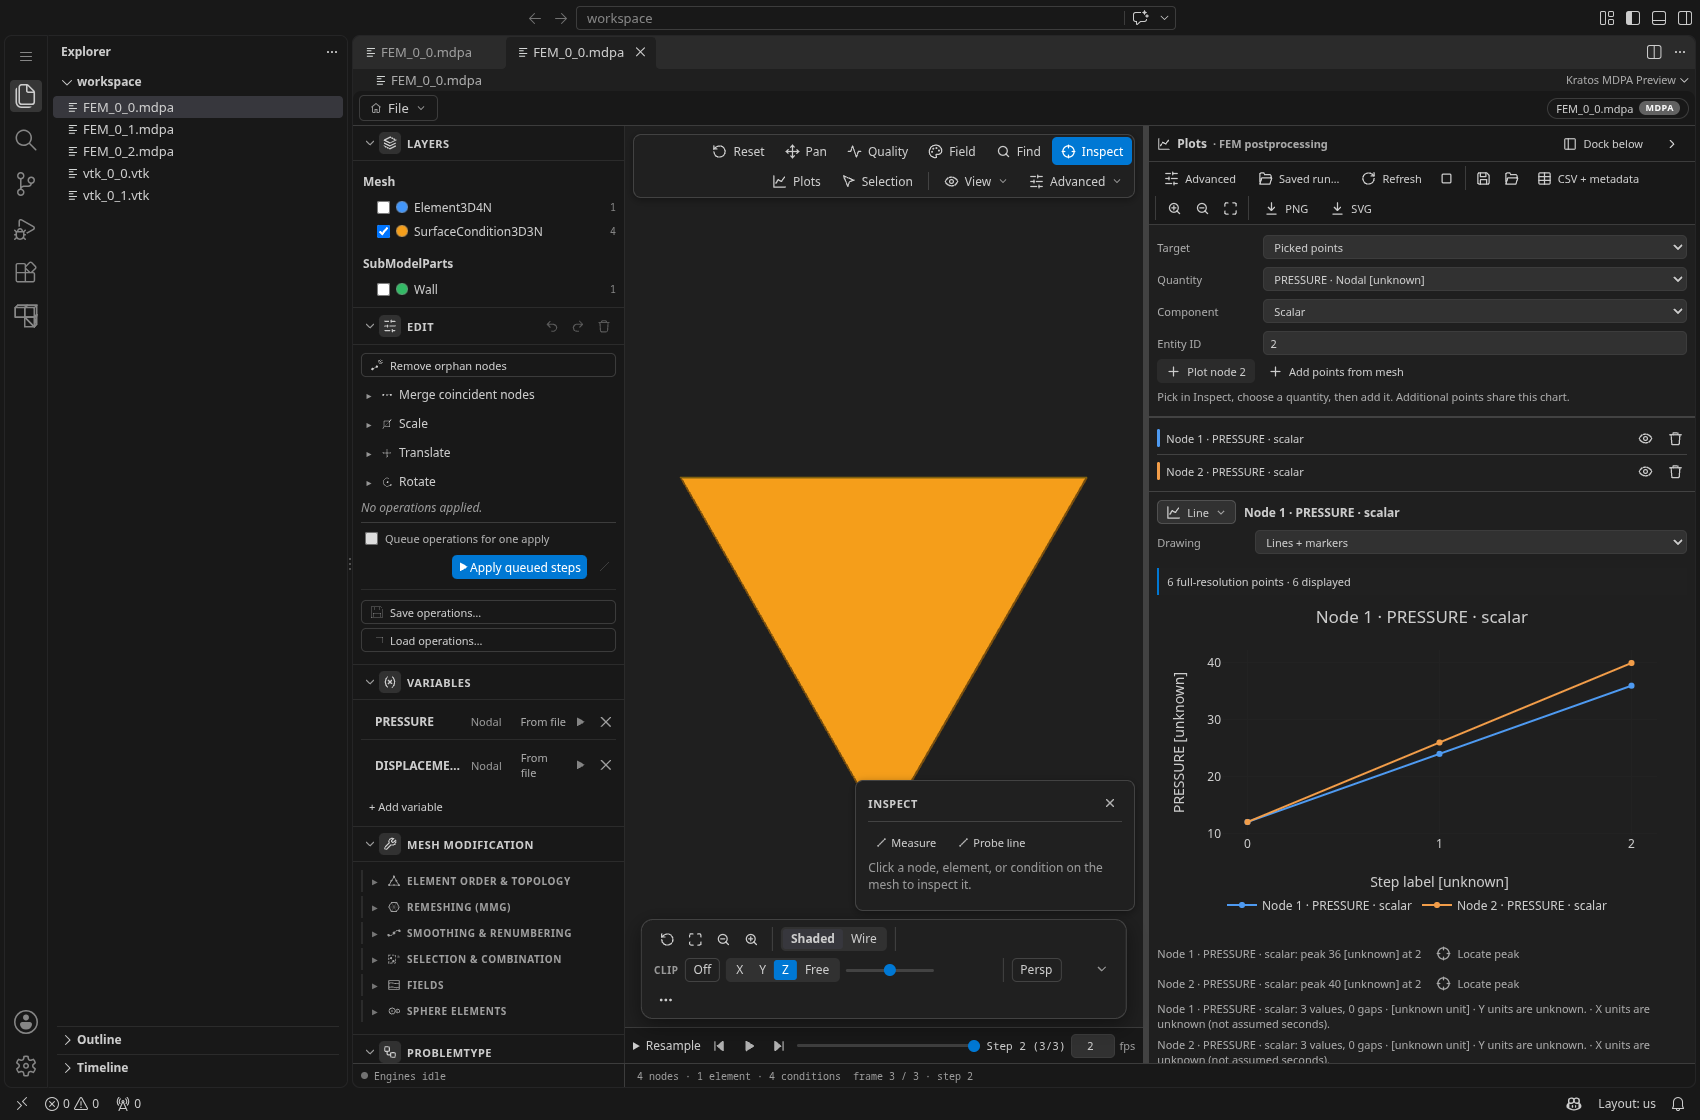
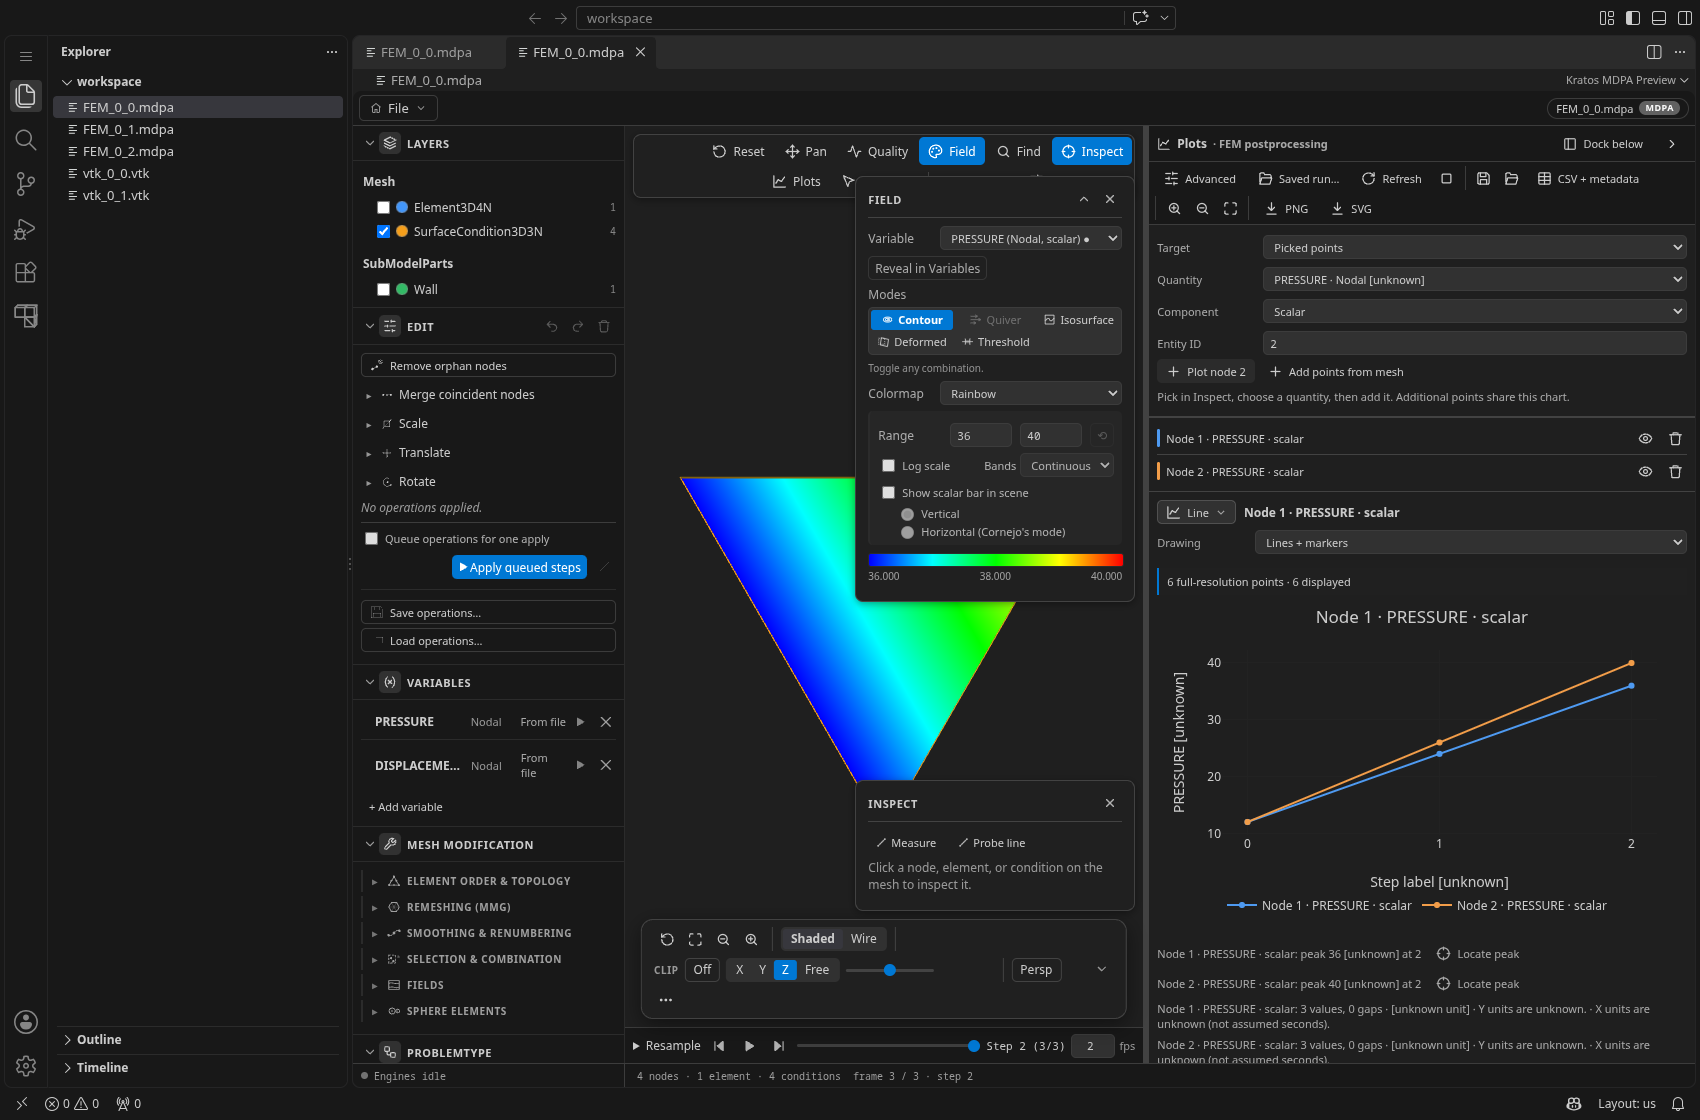
Plots default to the displayed field, with packaged proof (#124)
* Proceed

* docs(plots): field display drives plot quantity default, with packaged proof

Changed region(s): [[0.4053, 0.375, 0.6547, 0.7188], [0.4988, 0.2188, 0.6547, 0.375], [0.4988, 0.125, 0.6547, 0.2188]]

diff --git a/src/parser/plot/fem.ts b/src/parser/plot/fem.ts
@@ -8,13 +8,23 @@ export interface FemPlotContext {
   path: string; frameIndex: number; hasTimeline: boolean;
   /** Provider-local timeline/rank/resampling identity, not a claim of run ownership. */
   timelineId?: string;
+  /** `${kind}:${variable}` of the field currently displayed in the focused pane, if any. View-only hint so a plot defaults to what the mesh is showing. */
+  displayedKey?: string;
   fields: { variable:string; kind:FieldBlockKind; components:number; unit?:string }[];
   parts: { path:string; nodes:number; elements:number; conditions:number }[];
 }
-export function femPlotContext(path:string, model:MdpaModel|undefined, frameIndex=0, hasTimeline=false):FemPlotContext {
+export function plotFieldKey(kind: FieldBlockKind, variable: string): string {
+  return `${kind}:${variable}`;
+}
+export function defaultPlotFieldKey(fields: FemPlotContext["fields"], displayedKey?: string): string {
+  if (displayedKey && fields.some(f => plotFieldKey(f.kind, f.variable) === displayedKey)) return displayedKey;
+  const first = fields.find(f => f.variable === "DISPLACEMENT") ?? fields.find(f => f.variable === "PRESSURE") ?? fields[0];
+  return first ? plotFieldKey(first.kind, first.variable) : "";
+}
+export function femPlotContext(path:string, model:MdpaModel|undefined, frameIndex=0, hasTimeline=false, displayedKey?: string):FemPlotContext {
   const parts:FemPlotContext["parts"]=[];
   const walk=(p:NonNullable<MdpaModel>["subModelParts"][number])=>{parts.push({path:p.path,nodes:p.nodeIds.length,elements:p.elementIds.length,conditions:p.conditionIds.length});p.children.forEach(walk);};model?.subModelParts.forEach(walk);
-  return {path,frameIndex,hasTimeline,parts,fields:model?.fields.map(f=>({variable:f.variable,kind:f.kind,components:f.components,unit:model.source?.units?.fields?.[f.variable]??fieldUnitLabel(f)}))??[]};
+  return {path,frameIndex,hasTimeline,parts,fields:model?.fields.map(f=>({variable:f.variable,kind:f.kind,components:f.components,unit:model.source?.units?.fields?.[f.variable]??fieldUnitLabel(f)}))??[],...(displayedKey?{displayedKey}:{})};
 }
 export function appendFemCurve(recipe:PlotRecipe, source:PlotSource, component:number|"magnitude", components:number, name:string):PlotRecipe {
   const next=JSON.parse(JSON.stringify(recipe)) as PlotRecipe;

diff --git a/src/test/plotFem.test.ts b/src/test/plotFem.test.ts
@@ -7,7 +7,7 @@ import { parseMdpa } from "../parser/mdpaParser";
 import { sampleRegion } from "../parser/plot/region";
 import { collectPlot, collectPlotHistorySteps, loadPlotSource } from "../parser/plot/sources";
 import { emptyPlotRecipe, validatePlotRecipe, PLOT_CAPABILITIES } from "../parser/plot/recipe";
-import { appendFemCurve, femPlotContext } from "../parser/plot/fem";
+import { appendFemCurve, defaultPlotFieldKey, femPlotContext } from "../parser/plot/fem";
 import { plotCsvRows } from "../parser/plot/export";
 import { evaluatePlot, displayPlot } from "../parser/plot/numerics";
 import { plotDataset } from "../mcp/tools";
@@ -121,6 +121,16 @@ test("region recipes validate required physical parameters and retain all choice
   for(const extra of [{thickness:0},{referencePoint:undefined},{pressureOffset:NaN}])assert.throws(()=>validatePlotRecipe({...r,sources:[spec({operation:"pressureMoment",referencePoint:[1,2,3],...extra})]}));
   assert.ok(PLOT_CAPABILITIES.regionOperations.includes("pressureForce"));assert.equal(femPlotContext("x",tetra()).parts[0].path,"Wall");
   assert.throws(()=>appendFemCurve(r,{id:"history",type:"history",path:"x",kind:"Nodal",entityId:1,variable:"REACTION"},0,3,"Node"),/different domains/);
+});
+test("plot quantity defaults to the displayed field when it is still on the mesh",()=>{
+  const m=tetra();
+  assert.equal(femPlotContext("x",m,0,false,"Nodal:PRESSURE").displayedKey,"Nodal:PRESSURE");
+  assert.equal(femPlotContext("x",m).displayedKey,undefined);
+  const fields=femPlotContext("x",m).fields;
+  assert.equal(defaultPlotFieldKey(fields,"Nodal:PRESSURE"),"Nodal:PRESSURE");
+  assert.equal(defaultPlotFieldKey(fields,"Nodal:MISSING"),"Nodal:PRESSURE");
+  assert.equal(defaultPlotFieldKey(fields), "Nodal:PRESSURE");
+  assert.equal(defaultPlotFieldKey([]),"");
 });
 test("batch loads each frame once and diagnoses missing IDs, fields, widths and supplied metadata independently",async()=>{
   let loads=0;const first=tetra(),second=tetra();second.fields[0].ids=Int32Array.from([2,3,4]);second.source!.units!.fields!.REACTION="kN";

diff --git a/webview/plots/workspace.ts b/webview/plots/workspace.ts
@@ -1,7 +1,7 @@
 import { emptyPlotRecipe, validatePlotRecipe } from "../../src/parser/plot/recipe";
 import { type PlotFamily, type PlotColumn, type PlotDataset, type PlotOrigin, type PlotRecipe, type PlotSeriesSpec, type PlotSource, type PlotTable, type PlotTransform } from "../../src/parser/plot/types";
 import { Plotly, renderPlotChart, type PlotElement } from "./chart";
-import { appendFemCurve, regionResultWidth, type FemPlotContext } from "../../src/parser/plot/fem";
+import { appendFemCurve, defaultPlotFieldKey, regionResultWidth, type FemPlotContext } from "../../src/parser/plot/fem";
 import { REGION_OPERATIONS, type PlotRegionSource } from "../../src/parser/plot/types";
 import { glyph, type UiGlyphId } from "../../src/uiGlyphs";
 import { CHART_CHOICES } from "./catalog";
@@ -75,7 +75,7 @@ function renderQuick(){
   if(!context){quick.textContent="Pick entities in Inspect, or select a SubModelPart to analyze.";return;}
   select(quick,"Target",target,[{value:"point",label:"Picked points"},{value:"region",label:"SubModelPart / whole mesh"}],v=>{target=v;renderQuick();});
   const fields=context.fields;
-  if(!fields.some(f=>`${f.kind}:${f.variable}`===fieldKey)){const first=fields.find(f=>f.variable==="DISPLACEMENT")??fields.find(f=>f.variable==="PRESSURE")??fields[0];fieldKey=first?`${first.kind}:${first.variable}`:"";}
+  if(!fields.some(f=>`${f.kind}:${f.variable}`===fieldKey)){fieldKey=defaultPlotFieldKey(fields,context.displayedKey);}
   select(quick,"Quantity",fieldKey,fields.map(f=>({value:`${f.kind}:${f.variable}`,label:`${f.variable} · ${f.kind} [${f.unit??"unknown"}]`})),v=>{fieldKey=v;if(picked&&selectedField()?.kind!==picked.kind)picked=undefined;renderQuick();});
   const field=selectedField();if(!field){status.textContent="This mesh has no supplied field to plot.";return;}
   const vectorOperation=target==="region"&&["pressureForce","pressureMoment","reactionMoment"].includes(operation);

diff --git a/webview/main.ts b/webview/main.ts
@@ -3050,7 +3050,7 @@ function highlightPlotRegion(path:string):void {
   if(!cells.length)for(const id of nodes)cells.push({nodeIds:[id]});
   if(cells.length){addLayer("plot:region",cells,[1,.75,.1],true);render();}
 }
-const plotPane=initPlotPane({postMessage:v=>vscode.postMessage(v),setState:()=>{}},()=>femPlotContext(plotSourcePath,model,currentFrameIndex,timelineFrameCount>1),{onPickPoints:active=>{if(active)showInspectPanel();},onRegion:highlightPlotRegion});
+const plotPane=initPlotPane({postMessage:v=>vscode.postMessage(v),setState:()=>{}},()=>femPlotContext(plotSourcePath,model,currentFrameIndex,timelineFrameCount>1,fieldVisible?focusedPane().field.selectedKey:undefined),{onPickPoints:active=>{if(active)showInspectPanel();},onRegion:highlightPlotRegion});
 
 // --- Toolbar ------------------------------------------------------------
 // --- View + Advanced toolbar menus --------------------------------------

diff --git a/webview/plots/pane.ts b/webview/plots/pane.ts
@@ -35,6 +35,7 @@ export function initPlotPane(bridge:PlotBridge,getContext:()=>FemPlotContext,han
   sash.addEventListener("keydown",e=>{if(["ArrowLeft","ArrowRight","ArrowUp","ArrowDown","Home","End"].includes(e.key)){e.preventDefault();fraction=e.key==="Home"?.2:e.key==="End"?.75:Math.max(.2,Math.min(.75,fraction+(["ArrowLeft","ArrowUp"].includes(e.key)?.03:-.03)));size();}});
   return {open,receive:(msg:any)=>{
     if(msg.type==="plotReveal"){void open(false);if(msg.preset)afterReady(()=>applyPreset(msg.preset));return;}
+    if(msg.type==="plotContext"&&msg.context&&!msg.context.displayedKey){const local=getContext();if(local.displayedKey)msg={...msg,context:{...msg.context,displayedKey:local.displayedKey}};}
     if(!workspace)return;
     workspace.receive(msg);
     if(msg.type==="plotRecipe"&&!ready){ready=true;const action=pending;pending=undefined;action?.();}

diff --git a/doc/guide/scientific-plots.md b/doc/guide/scientific-plots.md
@@ -2,9 +2,9 @@
 
 The **Plots** pane is a read-only analysis workspace **inside the mesh editor**, for point histories, SubModelPart quantities and spatial profiles. A standalone **Scientific Plot Builder** also handles CSV/TSV without a mesh. Both use the same host-side extraction and numerical calculations as MCP, rather than sampling the rendered viewport. You do not need a plotting script. These are delivered increments of [roadmap item 8](../roadmap.md#_8-advanced-graphical-plotting-utilities-for-simulation-results-and-general-data-l); the remaining acceptance work is listed below.
 
-![Two nodal pressure histories in the Plots pane inside the packaged MDPA editor](/screenshots/fem-point-histories.png)
+![Two nodal pressure histories in the Plots pane inside the packaged MDPA editor, with the PRESSURE contour still displayed on the mesh beside the chart](/screenshots/fem-point-histories.png)
 
-*Captured from the packaged extension in code-server, not a mockup. The mesh and chart share one editor. This MDPA fixture supplies neither units nor physical time: axes honestly show unknown units and filename step labels, not Pa or seconds.*
+*Captured from the packaged extension in code-server, not a mockup. The mesh and chart share one editor: the Quantity dropdown defaults to the displayed field, so tracing the contoured variable needs no reselection. This MDPA fixture supplies neither units nor physical time: axes honestly show unknown units and filename step labels, not Pa or seconds.*
 
 ## Open the workspace
 
@@ -16,8 +16,8 @@ The embedded pane starts with simple **Target → Quantity → Component** contr
 
 ## Point histories and peaks
 
-1. Pick a node/entity with **Inspect**, then choose **Plot** beside displacement, pressure or another supplied field. Alternatively enter its **Entity ID** in Plots.
-2. Select a scalar, vector component or **Magnitude**. Choose **Plot node…** to append it.
+1. Pick a node/entity with **Inspect**, then choose **Plot** beside displacement, pressure or another supplied field. Alternatively enter its **Entity ID** in Plots. The mesh view stays rendered beside the chart: a displayed field (for example a `PRESSURE` contour) remains visible while its point history is plotted, so the 3D view and the trace can be read together.
+2. Select a scalar, vector component or **Magnitude**. Choose **Plot node…** to append it. The **Quantity** dropdown defaults to the field currently displayed in the focused pane (falling back to displacement, pressure, then the first supplied field), so tracing the contoured variable needs no reselection.
 3. For several points, choose **Add points from mesh**, then click mesh points. Each click appends a history with the selected quantity/component; **Done picking** or Escape ends this mode. Existing curves stay on the chart, with **Hide / Show / Remove** controls.
 
 Point and regional requests from the same path scan together, loading each frame once. Missing fields, missing IDs and changed field/time metadata are distinct diagnostics, not zeros. Histories always use disk values, not replayed edits. **Locate peak** uses the full-resolution maximum even when display samples are reduced, and moves the owning preview to the original frame/entity when ownership is still valid. A point's history peak is not a regional maximum: regional magnitude extrema compute each entity's magnitude **before** selecting the maximum.
